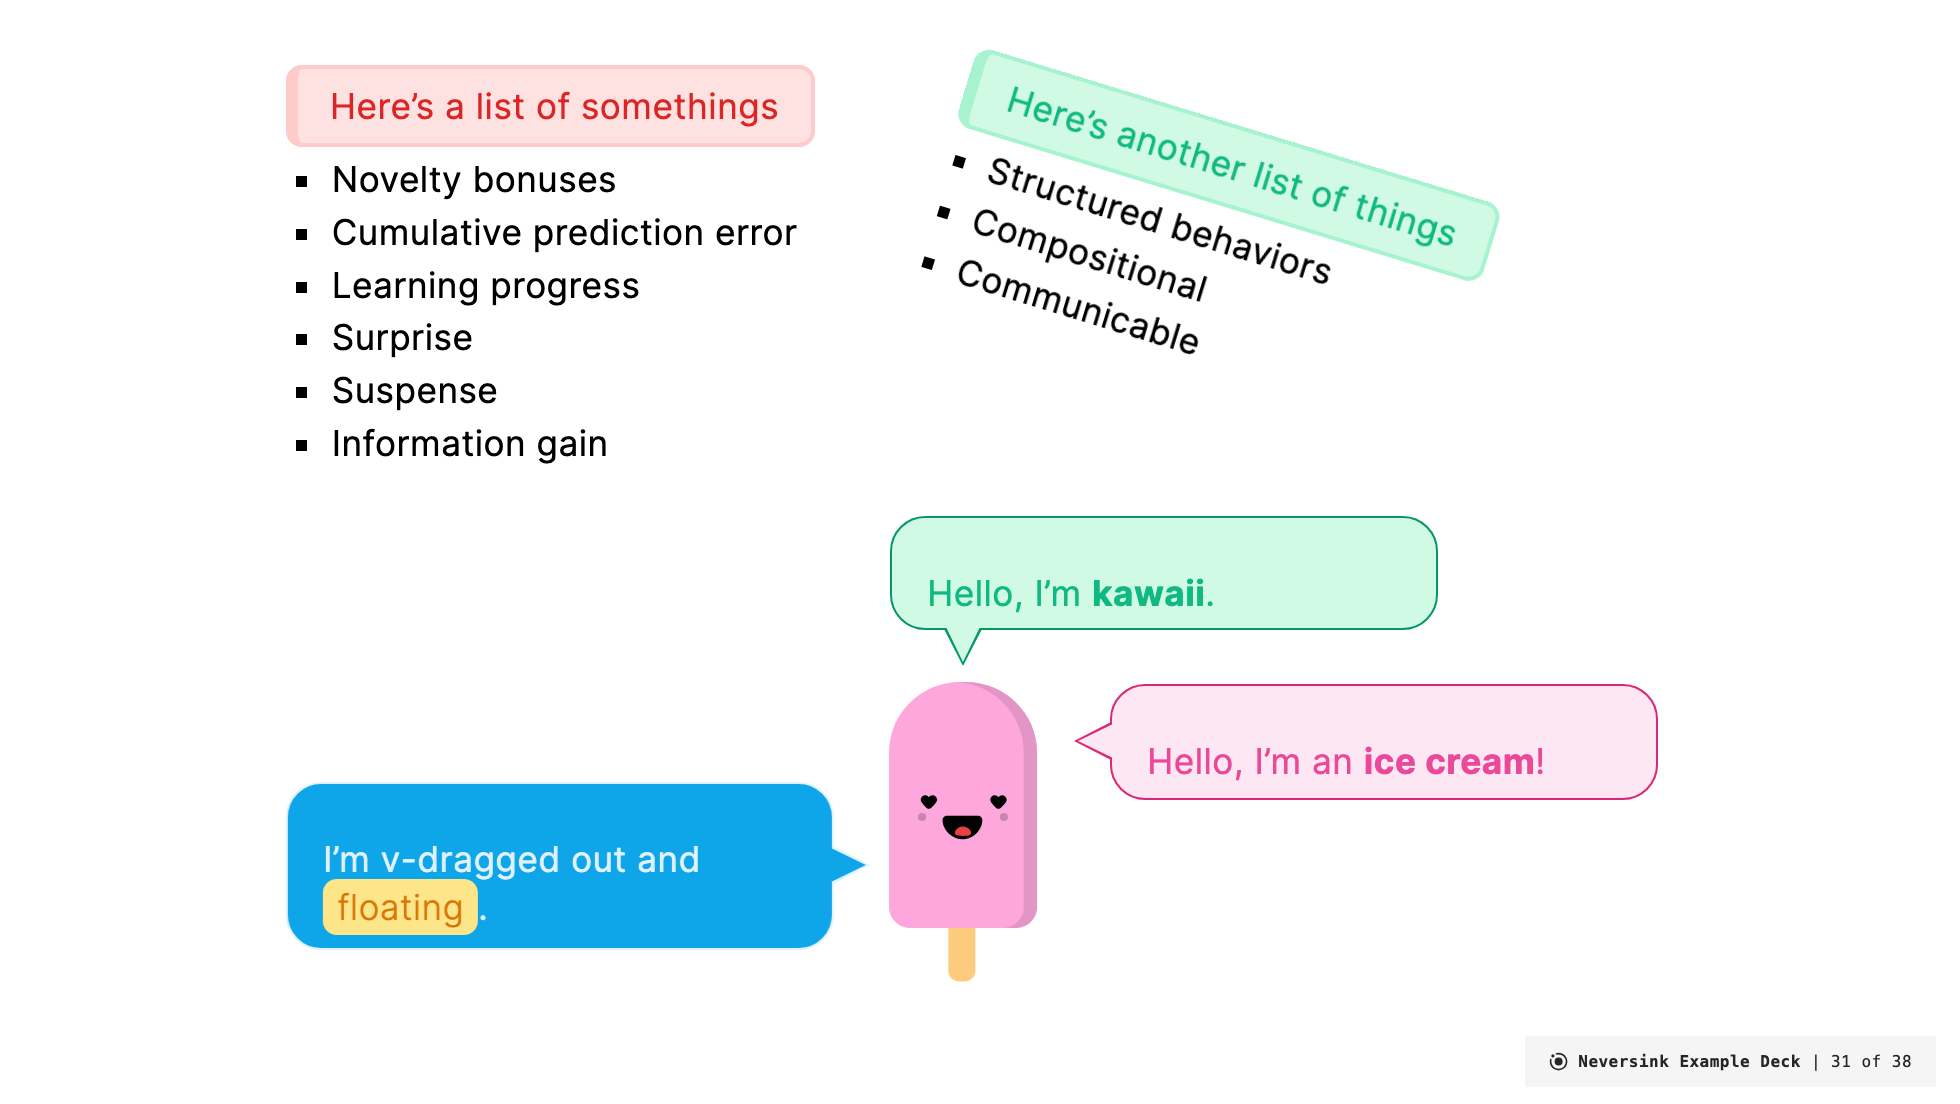
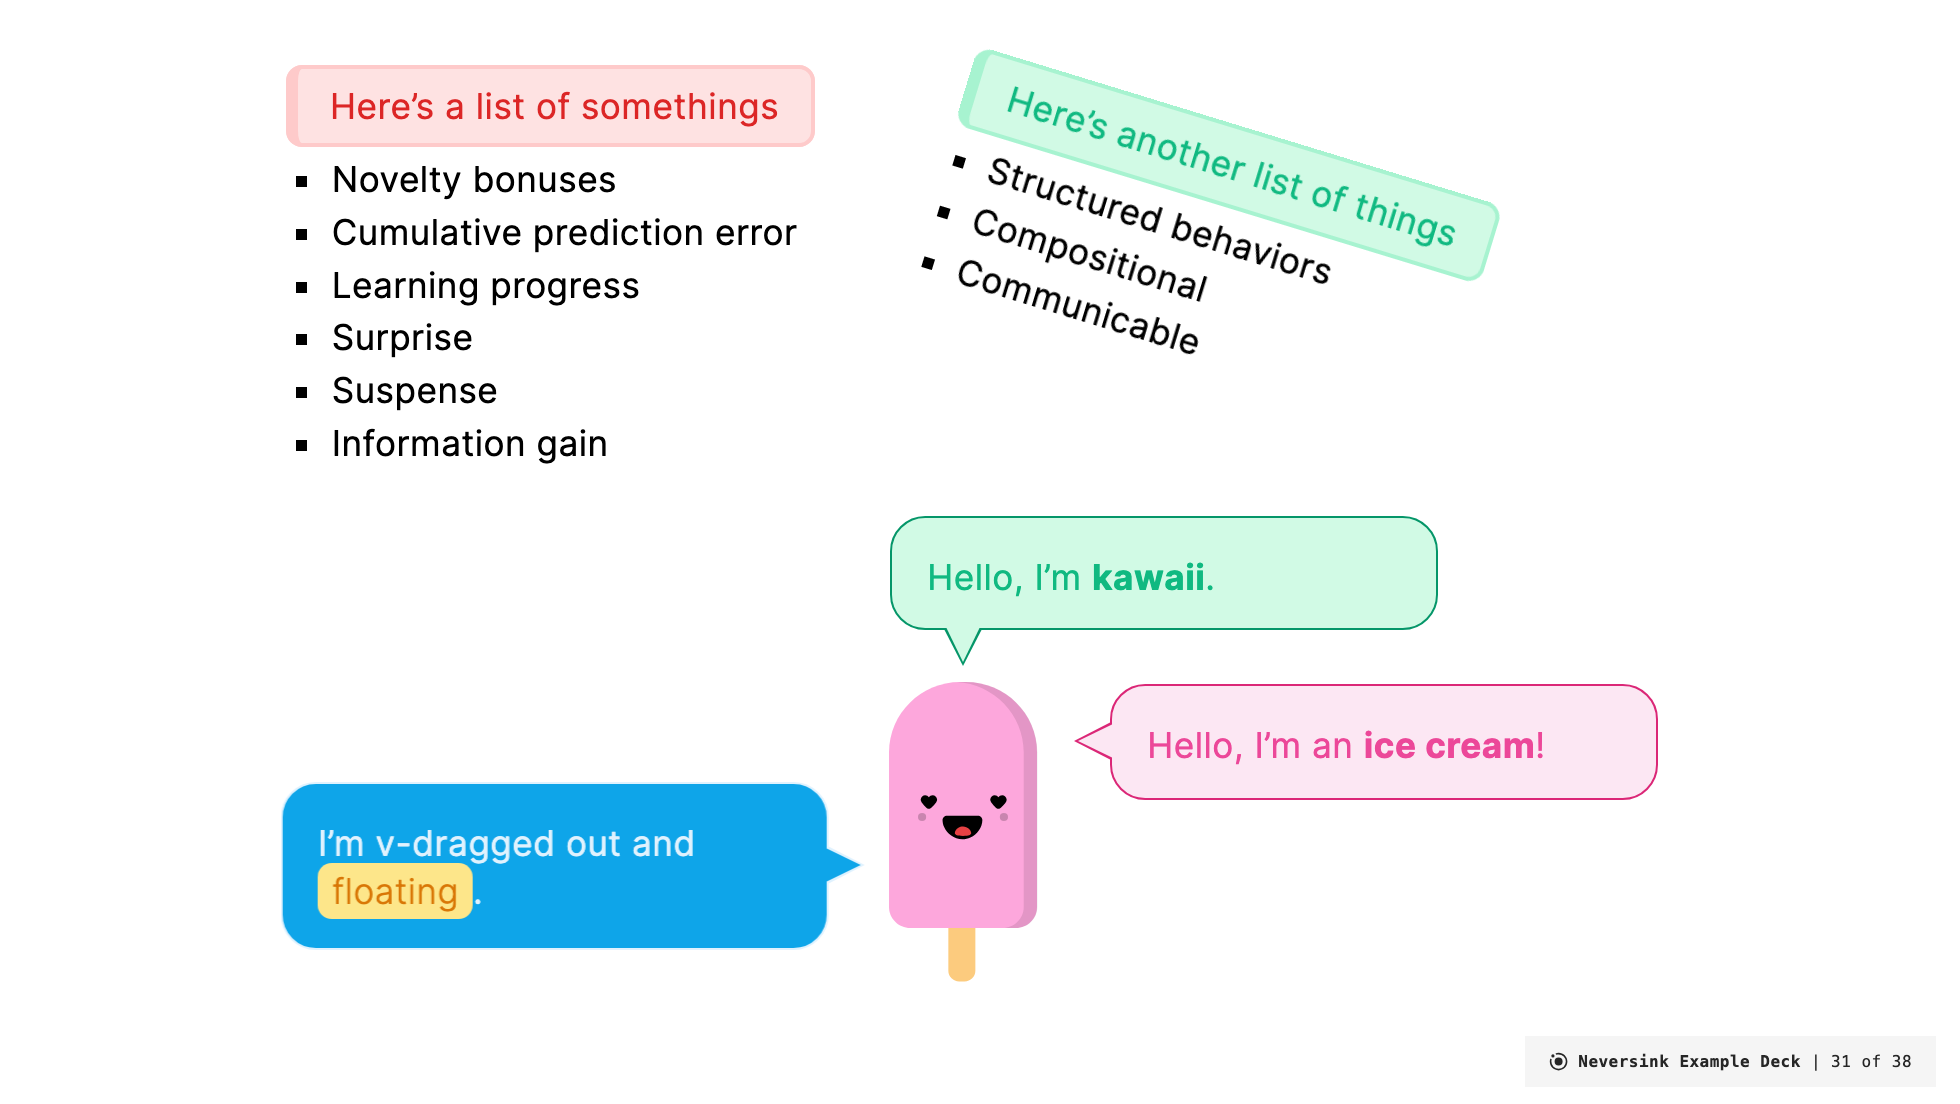
speech bubbles and kawaii

diff --git a/docs/.vitepress/theme/index.js b/docs/.vitepress/theme/index.js
@@ -12,6 +12,16 @@ import StickyNote from '../../../components/StickyNote.vue'
 import QrcodeVue from 'qrcode.vue'
 import SpeechBubble from '../../../components/SpeechBubble.vue'
 
+import Backpack from '../../../components/vue3-kawaii/components/backpack/Backpack.vue'
+import Browser from '../../../components/vue3-kawaii/components/browser/Browser.vue'
+import Cat from '../../../components/vue3-kawaii/components/cat/Cat.vue'
+import CreditCard from '../../../components/vue3-kawaii/components/creditCard/CreditCard.vue'
+import Ghost from '../../../components/vue3-kawaii/components/ghost/Ghost.vue'
+import IceCream from '../../../components/vue3-kawaii/components/iceCream/IceCream.vue'
+import Mug from '../../../components/vue3-kawaii/components/mug/Mug.vue'
+import Planet from '../../../components/vue3-kawaii/components/planet/Planet.vue'
+import SpeechBubbleGuy from '../../../components/vue3-kawaii/components/speechBubble/SpeechBubbleGuy.vue'
+
 /** @type {import('vitepress').Theme} */
 export default {
   extends: DefaultTheme,
@@ -27,5 +37,14 @@ export default {
     app.component('StickyNote', StickyNote)
     app.component('QRCode', QrcodeVue)
     app.component('SpeechBubble', SpeechBubble)
+    app.component('BackPack', Backpack)
+    app.component('Browser', Browser)
+    app.component('Cat', Cat)
+    app.component('CreditCard', CreditCard)
+    app.component('Ghost', Ghost)
+    app.component('IceCream', IceCream)
+    app.component('Mug', Mug)
+    app.component('Planet', Planet)
+    app.component('SpeechBubbleGuy', SpeechBubbleGuy)
   },
 }

diff --git a/components/SpeechBubble.vue b/components/SpeechBubble.vue
@@ -69,7 +69,7 @@ const bubbleStyles = computed(() => ({
   --arrow-w: 0.5em;
   --arrow-h: 1em;
   --bubble-corners: 2px;
-  --w: 100%;
+  --w: v-bind(props.maxWidth);
   --border-size: v-bind(props.borderWidth);
   text-align: var(--text-align);
   height: fit-content;

diff --git a/docs/components/speechbubble.md b/docs/components/speechbubble.md
@@ -6,49 +6,64 @@
 
 StickyNotes are a take on the classic computer metaphor of a sticknote. They are often used to provide notes or additional information to the viewer.
 
-## `StickyNote`
+## `SpeechBubble`
 
-The `StickyNote` component is used to create a colored box with an title and content. The StickyNote component has the following props:
+The `SpeechBubble` component is used to create a colored bubble with a speech bubble tail. The `SpeechBubble` has the following props:
 
-- `title` (optional). Default value is ''
-- `color` (optional) can be any of the [color scheme](/colors) options. If not provided, the default color is `amber-light`.
-- `width` (optional) the width of the admonition. Default is `180px`.
+- `position` (optional). Default value is `b`. Options are `t` (top), `b` (bottom), `l` (left), `r` (right), `tl` (top left), `tr` (top right), `bl` (bottom left), `br` (bottom right).
+- `shape` (optional). Default value is `''`. Options are `round` and `circle` which affect the corner radius of the bubble.
+- `animation` (optional). Default value is `''`. Options are `pop` and `float`
+- `color` (optional) can be any of the [color scheme](/colors) options. If not provided, the default color is `red-light`.
 - `textAlign` (optional) the text alignment of the content. Default is `left`.
+- `maxWidth` (optional) the maximum width of the speech bubble. Default is `100%`.
+- `borderWidth` (optional) the width of the border. Default is `1px`.
 
 Example:
 
 ```md
-<StickyNote color="amber-light" textAlign="left" width="180px" title="Title">
+<SpeechBubble position="r" color='sky' shape="round" maxWidth="300px">
 
-Hello, I'm a **sticky note**.
-</StickyNote>
+Hello, I'm a **speech bubble**! I'm a longer speech bubble. I'm still going.
+</SpeechBubble>
 ```
 
 Renders as:
-<StickyNote color="amber-light" textAlign="left" width="180px" title="Title">
+<SpeechBubble position="r" color='sky' shape="round" maxWidth="300px">
 
-Hello, I'm a **sticky note**.
-</StickyNote>
-
-If you want to position it somewhere arbitrary on the slide add v-drag to the admonition and also set the width to something fixed (e.g., `300px`):
+Hello, I'm a **speech bubble**! I'm a longer speech bubble. I'm still going.
+</SpeechBubble>
 
 ```md
-<StickyNote color="amber-light" textAlign="left" width="180px" title="Title" v-drag>
+<SpeechBubble position="b" color='sky' shape="round" maxWidth="300px">
 
-Hello, I'm a **sticky note**.
-</StickyNote>
+Hello, I'm a **speech bubble**! I'm a longer speech bubble. I'm still going.
+</SpeechBubble>
 ```
 
-Another color:
+Renders as:
+<SpeechBubble position="b" color='sky' shape="round" maxWidth="300px">
+
+Hello, I'm a **speech bubble**! I'm a longer speech bubble. I'm still going.
+</SpeechBubble>
 
 ```md
-<StickyNote color="pink-light" textAlign="left" width="180px" title="Title">
+<SpeechBubble position="t" color='amber' shape="round" maxWidth="300px">
 
-Hello, I'm a **sticky note**.
-</StickyNote>
+Hello, I'm a **speech bubble**! I'm a longer speech bubble. I'm still going.
+</SpeechBubble>
 ```
 
-<StickyNote color="pink-light" textAlign="left" width="180px" title="Title">
+Renders as:
+<SpeechBubble position="t" color='amber' shape="round" maxWidth="300px">
 
-Hello, I'm a **sticky note**.
-</StickyNote>
+Hello, I'm a **speech bubble**! I'm a longer speech bubble. I'm still going.
+</SpeechBubble>
+
+If you want to position it somewhere arbitrary on the slide add v-drag to the admonition and also set the maxWidth to something fixed (e.g., `300px`):
+
+```md
+<SpeechBubble position="t" color='sky' shape="round" maxWidth="300px" v-drag>
+
+Hello, I'm a **speech bubble**! I'm a longer speech bubble. I'm still going.
+</SpeechBubble>
+```

diff --git a/docs/components/kawaii.md b/docs/components/kawaii.md
@@ -1,1 +1,26 @@
 # Kawaii
+
+<img src="/screenshots/37.png" alt="kawaii slide example" width="600" class="screenshot mb-10 mt-10"/>
+
+## Description
+
+Kawaii are little characters you can include in slides to add a bit of fun/whimsy. Code and illustrations based on [Vue Kawaii](https://github.com/youngtailors/vue-kawaii).
+
+## Kawaii components
+
+The `Qr` component is used to create QR code in SVG format. The QRCode component has the following props:
+
+- `mood` (required). Sets the style of face. Options are `sad`, `shocked`, `happy`, `blissful`, `lovestruck`, `excited`, `ko`. Default is `blissful`.
+- `:size` (required) the width of the character (height adjusts automatically).
+- `:color` (optional) Sets the primary color. Defaults are unique for each character Set using a hex code.
+
+The character options are `IceCream`, `Backpack`, `Cat`, `Browser`, `Mug`, `Planet`, `SpeechBubbleGuy`, and `CreditCard`.
+
+Example:
+
+```md
+<IceCream :size="140" mood="sad" color="#FDA7DC" />
+```
+
+Renders as:
+<IceCream :size="140" mood="blissful" color="#FDA7DC" />
